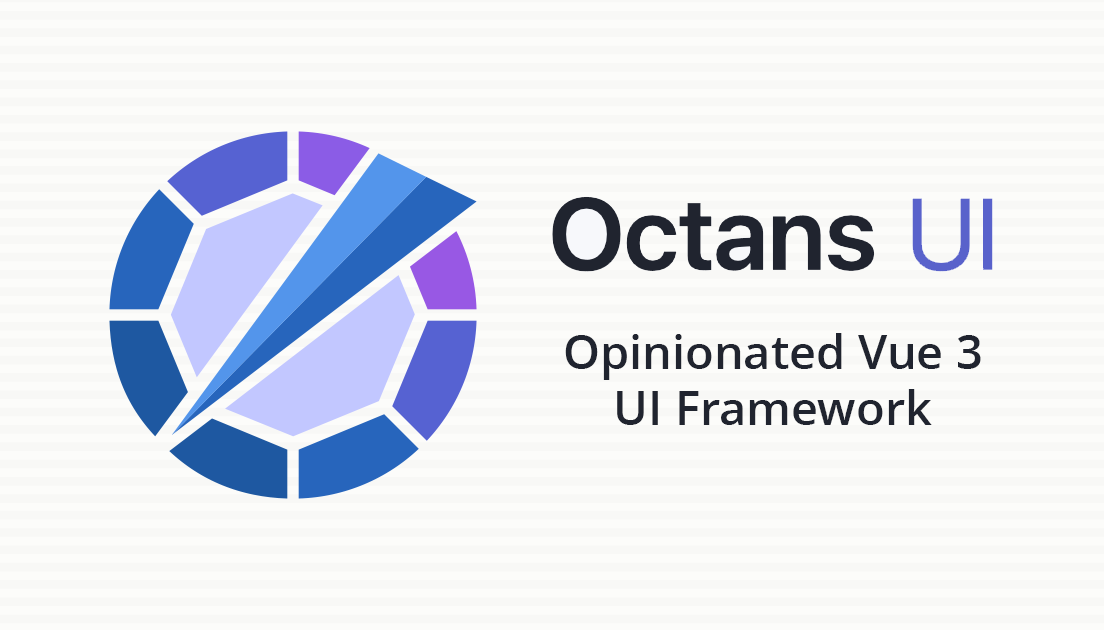
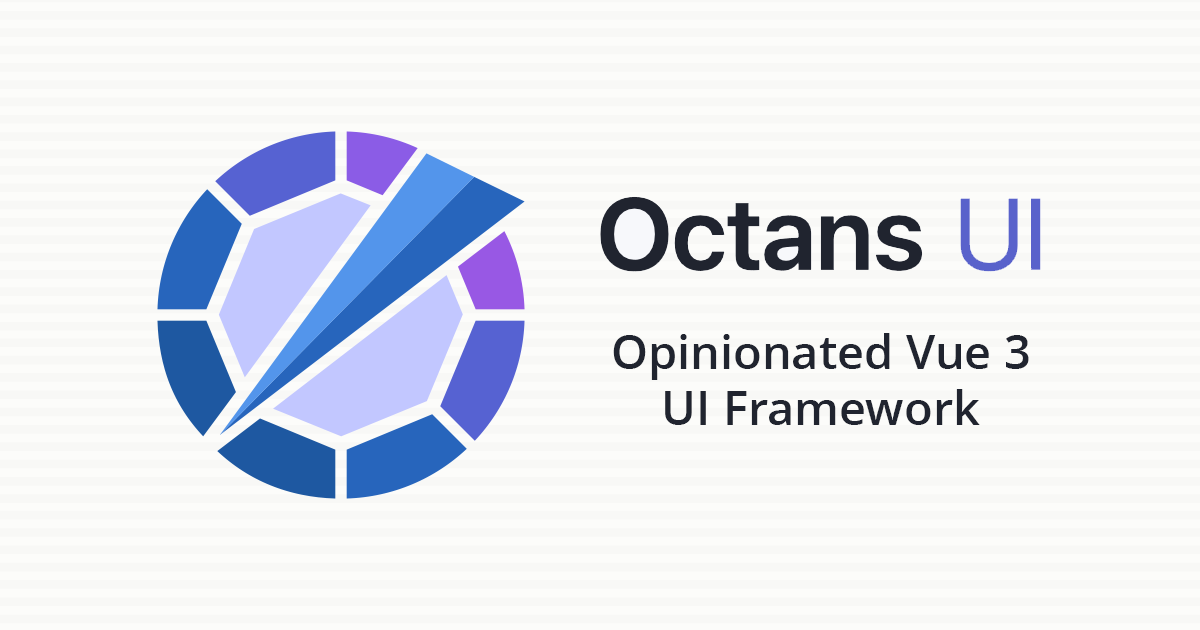
feat: fixed more headers in landing page feat: fixed size of og:image

diff --git a/site/index.html b/site/index.html
@@ -54,7 +54,21 @@
       content="https://octans.dev/octans-og-image.png"
     />
 
+    <!--
+      The SVG is what any current browser picks. The PNG is the fallback for
+      the ones that cannot use it, and the icon iOS puts on the home screen —
+      one 1024px file for both, which the OS scales down. `sizes` states what
+      the file actually is rather than the slot it is being used for, so
+      nothing has to change if a second size is ever added.
+    -->
     <link rel="icon" type="image/svg+xml" href="./octans-logo.svg" />
+    <link
+      rel="icon"
+      type="image/png"
+      sizes="1024x1024"
+      href="./octans-icon.png"
+    />
+    <link rel="apple-touch-icon" href="./octans-icon.png" />
 
     <!--
       Storybook used to be served from the root, so links shared before this

diff --git a/.storybook/manager-head.html b/.storybook/manager-head.html
@@ -16,6 +16,24 @@
   type="image/svg+xml"
   href="./octans-logo.svg"
 />
+<!--
+  The PNG fallback and the iOS home-screen icon, one 1024px file for both. It
+  lives at the site root next to the landing page rather than in
+  .storybook/public, so `../` rather than `./` — a second copy of a binary is a
+  thing that drifts. That path resolves in the deployed site (and under a
+  project subpath); in `storybook dev` there is nothing above the server root,
+  so it 404s there and the SVG above carries the tab on its own.
+-->
+<link
+  rel="icon"
+  type="image/png"
+  sizes="1024x1024"
+  href="../octans-icon.png"
+/>
+<link
+  rel="apple-touch-icon"
+  href="../octans-icon.png"
+/>
 
 <meta
   name="description"
